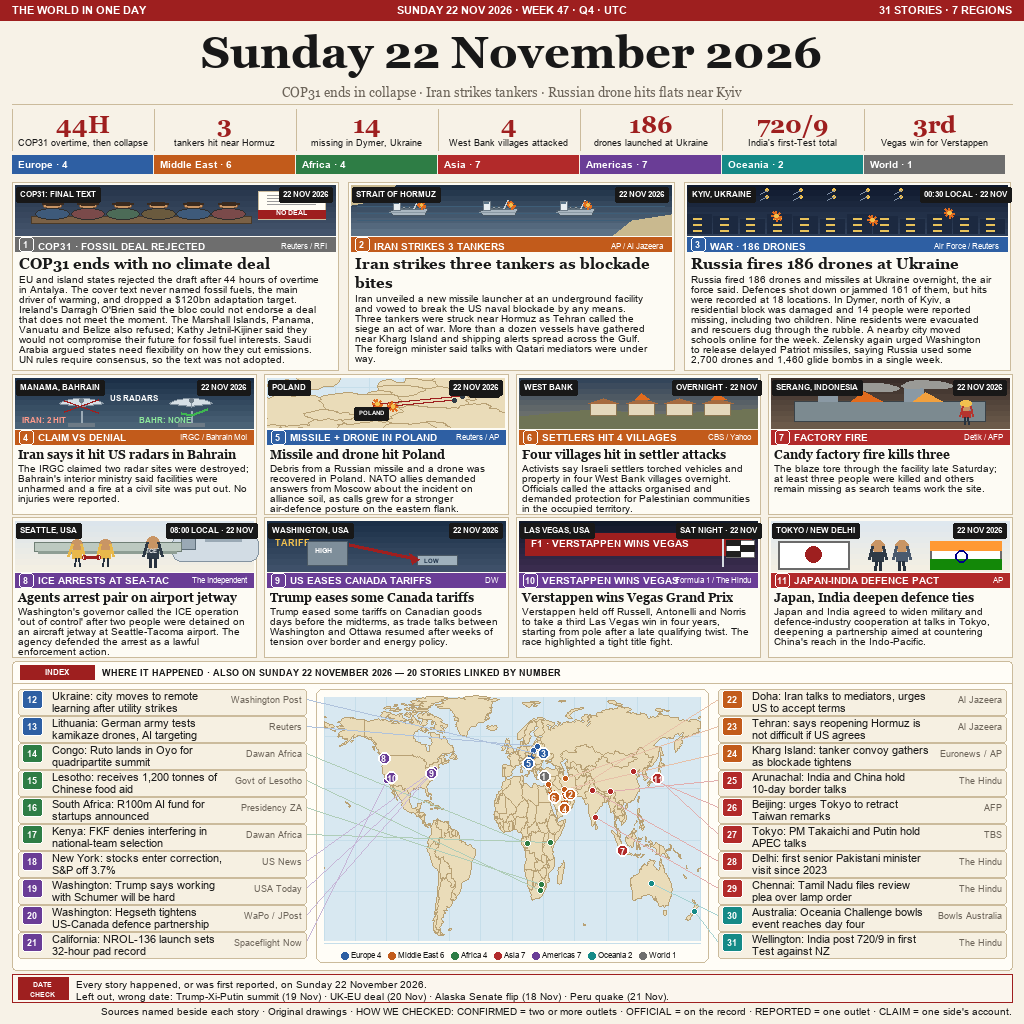
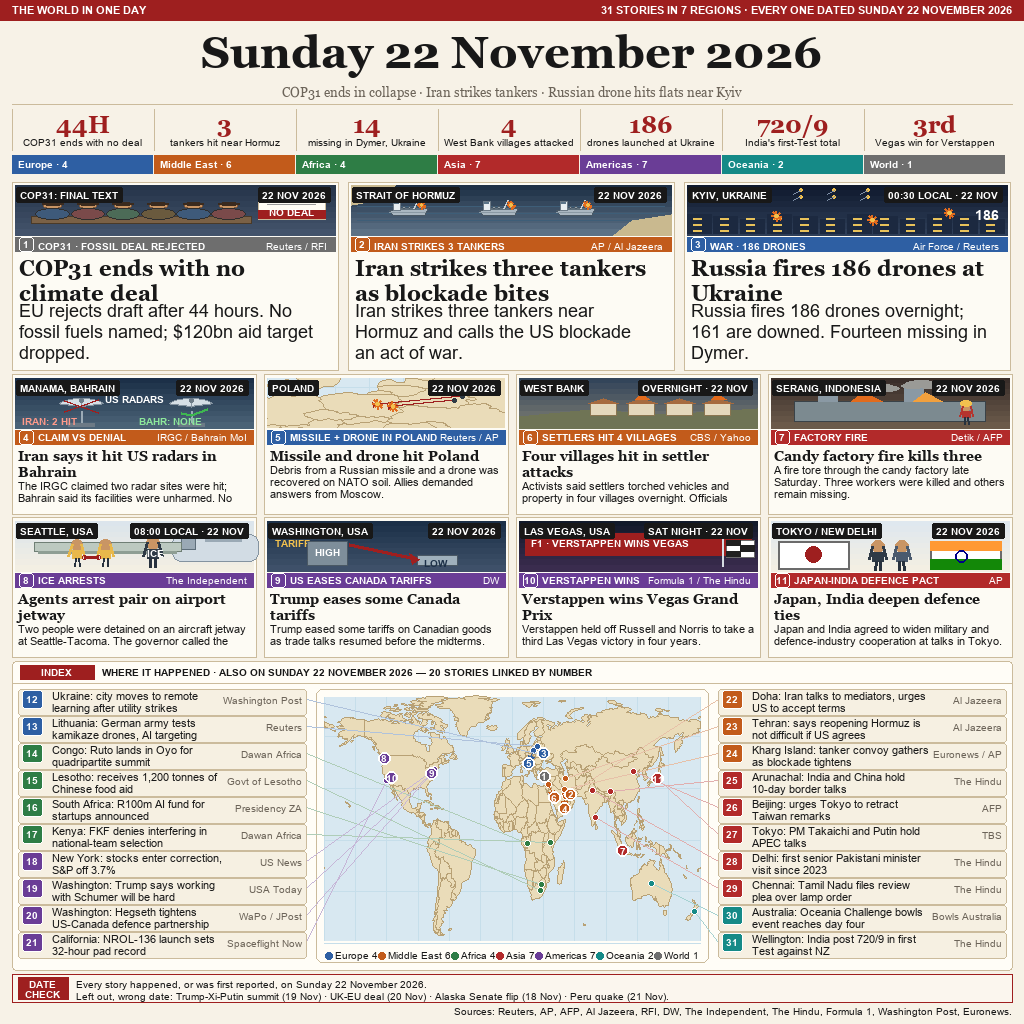
Judge-driven legibility and illustration fixes

diff --git a/stories.py b/stories.py
@@ -21,68 +21,68 @@ STORIES = [
     # ---- 3 lead stories ----------------------------------------------------
     dict(n=1, region="World", place="COP31: FINAL TEXT", lat=36.90, lon=30.71,
          kicker="COP31 · FOSSIL DEAL REJECTED", headline="COP31 ends with no climate deal",
-         body="EU and island states rejected the draft after 44 hours of overtime in Antalya. The cover text never named fossil fuels, the main driver of warming, and dropped a $120bn adaptation target. Ireland's Darragh O'Brien said the bloc could not endorse a deal that does not meet the moment. The Marshall Islands, Panama, Vanuatu and Belize also refused; Kathy Jetnil-Kijiner said they would not compromise their future for fossil fuel interests. Saudi Arabia argued states need flexibility on how they cut emissions. UN rules require consensus, so the text was not adopted.",
+         body="EU rejects draft after 44 hours. No fossil fuels named; $120bn aid target dropped.",
          source="Reuters / RFI", status="CONFIRMED", size="main", scene="cop",
          brief="Antalya: COP31 collapses as EU rejects fossil-free draft"),
 
     dict(n=2, region="Middle East", place="STRAIT OF HORMUZ", lat=26.57, lon=56.25,
          kicker="IRAN STRIKES 3 TANKERS", headline="Iran strikes three tankers as blockade bites",
-         body="Iran unveiled a new missile launcher at an underground facility and vowed to break the US naval blockade by any means. Three tankers were struck near Hormuz as Tehran called the siege an act of war. More than a dozen vessels have gathered near Kharg Island and shipping alerts spread across the Gulf. The foreign minister said talks with Qatari mediators were under way.",
+         body="Iran strikes three tankers near Hormuz and calls the US blockade an act of war.",
          source="AP / Al Jazeera", status="CONFIRMED", size="main", scene="hormuz",
          brief="Hormuz: Iran hits 3 tankers, vows to break US blockade"),
 
     dict(n=3, region="Europe", place="KYIV, UKRAINE", lat=50.45, lon=30.52,
          kicker="WAR · 186 DRONES", headline="Russia fires 186 drones at Ukraine",
-         body="Russia fired 186 drones and missiles at Ukraine overnight, the air force said. Defences shot down or jammed 161 of them, but hits were recorded at 18 locations. In Dymer, north of Kyiv, a residential block was damaged and 14 people were reported missing, including two children. Nine residents were evacuated and rescuers dug through the rubble. A nearby city moved schools online for the week. Zelensky again urged Washington to release delayed Patriot missiles, saying Russia used some 2,700 drones and 1,460 glide bombs in a single week.",
+         body="Russia fires 186 drones overnight; 161 are downed. Fourteen missing in Dymer.",
          source="Air Force / Reuters", status="CONFIRMED", size="main", scene="drones",
          brief="Ukraine: 186 Russian drones fired overnight, 161 downed"),
 
     # ---- 8 illustrated stories ---------------------------------------------
     dict(n=4, region="Middle East", place="MANAMA, BAHRAIN", lat=26.23, lon=50.58,
          kicker="CLAIM VS DENIAL", headline="Iran says it hit US radars in Bahrain",
-         body="The IRGC claimed two radar sites were destroyed; Bahrain's interior ministry said facilities were unharmed and a fire at a civil site was put out. No injuries were reported.",
+         body="The IRGC claimed two radar sites were hit; Bahrain said its facilities were unharmed. No injuries were reported.",
          source="IRGC / Bahrain MoI", status="CLAIM", size="small", scene="radar",
          brief="Bahrain: Iran claims radar strikes, government denies damage"),
 
     dict(n=5, region="Europe", place="POLAND", lat=52.20, lon=21.00,
          kicker="MISSILE + DRONE IN POLAND", headline="Missile and drone hit Poland",
-         body="Debris from a Russian missile and a drone was recovered in Poland. NATO allies demanded answers from Moscow about the incident on alliance soil, as calls grew for a stronger air-defence posture on the eastern flank.",
+         body="Debris from a Russian missile and a drone was recovered on NATO soil. Allies demanded answers from Moscow.",
          source="Reuters / AP", status="REPORTED", size="small", scene="poland",
          brief="Poland: Russian missile and drone found on NATO soil"),
 
     dict(n=6, region="Middle East", place="WEST BANK", lat=32.00, lon=35.30,
          kicker="SETTLERS HIT 4 VILLAGES", headline="Four villages hit in settler attacks",
-         body="Activists say Israeli settlers torched vehicles and property in four West Bank villages overnight. Officials called the attacks organised and demanded protection for Palestinian communities in the occupied territory.",
+         body="Activists said settlers torched vehicles and property in four villages overnight. Officials demanded protection.",
          source="CBS / Yahoo", status="REPORTED", size="small", scene="westbank",
          brief="West Bank: four villages targeted in suspected settler attacks"),
 
     dict(n=7, region="Asia", place="SERANG, INDONESIA", lat=-6.12, lon=106.13,
          kicker="FACTORY FIRE", headline="Candy factory fire kills three",
-         body="The blaze tore through the facility late Saturday; at least three people were killed and others remain missing as search teams work the site.",
+         body="A fire tore through the candy factory late Saturday. Three workers were killed and others remain missing.",
          source="Detik / AFP", status="REPORTED", size="small", scene="factory",
          brief="Indonesia: candy factory fire kills three, others missing"),
 
     dict(n=8, region="Americas", place="SEATTLE, USA", lat=47.45, lon=-122.31,
-         kicker="ICE ARRESTS AT SEA-TAC", headline="Agents arrest pair on airport jetway",
-         body="Washington's governor called the ICE operation 'out of control' after two people were detained on an aircraft jetway at Seattle-Tacoma airport. The agency defended the arrest as a lawful enforcement action.",
+         kicker="ICE ARRESTS", headline="Agents arrest pair on airport jetway",
+         body="Two people were detained on an aircraft jetway at Seattle-Tacoma. The governor called the operation out of control.",
          source="The Independent", status="CONFIRMED", size="small", scene="ice",
          brief="Seattle: ICE arrests on jetway draw governor's condemnation"),
 
     dict(n=9, region="Americas", place="WASHINGTON, USA", lat=38.90, lon=-77.04,
          kicker="US EASES CANADA TARIFFS", headline="Trump eases some Canada tariffs",
-         body="Trump eased some tariffs on Canadian goods days before the midterms, as trade talks between Washington and Ottawa resumed after weeks of tension over border and energy policy.",
+         body="Trump eased some tariffs on Canadian goods as trade talks resumed before the midterms.",
          source="DW", status="REPORTED", size="small", scene="tariff",
          brief="Washington: Trump softens some tariffs on Canada"),
 
     dict(n=10, region="Americas", place="LAS VEGAS, USA", lat=36.17, lon=-115.14,
-         kicker="VERSTAPPEN WINS VEGAS", headline="Verstappen wins Vegas Grand Prix",
-         body="Verstappen held off Russell, Antonelli and Norris to take a third Las Vegas win in four years, starting from pole after a late qualifying twist. The race highlighted a tight title fight.",
+         kicker="VERSTAPPEN WINS", headline="Verstappen wins Vegas Grand Prix",
+         body="Verstappen held off Russell and Norris to take a third Las Vegas victory in four years.",
          source="Formula 1 / The Hindu", status="CONFIRMED", size="small", scene="f1",
          brief="Las Vegas: Verstappen wins third Vegas GP in four years"),
 
     dict(n=11, region="Asia", place="TOKYO / NEW DELHI", lat=35.68, lon=139.69,
          kicker="JAPAN-INDIA DEFENCE PACT", headline="Japan, India deepen defence ties",
-         body="Japan and India agreed to widen military and defence-industry cooperation at talks in Tokyo, deepening a partnership aimed at countering China's reach in the Indo-Pacific.",
+         body="Japan and India agreed to widen military and defence-industry cooperation at talks in Tokyo.",
          source="AP", status="CONFIRMED", size="small", scene="flags_jp_in",
          brief="Tokyo: Japan and India agree wider defence cooperation"),
 
@@ -216,8 +216,8 @@ DATE_CHECK = (
 )
 
 SOURCES_LINE = (
-    "Sources named beside each story · Original drawings · HOW WE CHECKED: CONFIRMED = two or "
-    "more outlets · OFFICIAL = on the record · REPORTED = one outlet · CLAIM = one side's account."
+    "Sources: Reuters, AP, AFP, Al Jazeera, RFI, DW, The Independent, "
+    "The Hindu, Formula 1, Washington Post, Euronews."
 )
 
 REGIONS = ["Europe", "Middle East", "Africa", "Asia", "Americas", "Oceania", "World"]

diff --git a/render.py b/render.py
@@ -50,6 +50,7 @@ MAP_BRIEF_DOTS = []   # (n, dot_x, dot_y, colour)
 
 
 def font(px, bold=False, serif=False):
+    px = max(10, px)  # global minimum: every text stays readable
     if serif:
         name = "georgiab.ttf" if bold else "georgia.ttf"
     else:
@@ -345,10 +346,6 @@ def scene(d, box, s):
             burst(d, ex, ey, 5)
             # small drone at the eastern origin
             d.ellipse([ax - 2, ay - 2, ax + 2, ay + 2], fill="#2E3A46")
-        rx, ry = pj(55.0, 32.5)
-        tag(d, rx - 2, ry - 6, "RUSSIA", "#181818", 6)
-        px, py = pj(52.6, 19.0)
-        tag(d, px - 2, py + 6, "POLAND", "#181818", 6)
 
     elif k == "westbank":
         grad("#33455A", "#7B7C72")
@@ -473,7 +470,7 @@ def scene(d, box, s):
         for fx, fy in ((0.28, 0.62), (0.58, 0.70), (0.82, 0.56)):
             ax, ay = P(fx, fy)
             burst(d, ax, ay, 5)
-        put(d, P(0.88, 0.08), "186", font(14, True), "#FFFFFF")
+        put(d, P(0.90, 0.44), "186", font(14, True), "#FFFFFF")
 
     elif k == "radar":
         grad("#1C3048", "#4A6276")
@@ -626,11 +623,11 @@ def map_panel(d):
     labels = [f"{reg} {sum(1 for s in STORIES if s['region'] == reg)}"
               for reg in REGIONS]
     widths = [d.textlength(label, font=f) for label in labels]
-    lx = mx0 + (mx1 - mx0 - sum(17 + w for w in widths)) / 2
+    lx = mx0 + (mx1 - mx0 - sum(10 + w for w in widths)) / 2
     for reg, label, w in zip(REGIONS, labels, widths):
         d.ellipse([lx, ly, lx + 7, ly + 7], fill=rgb(REGION_COLORS[reg]))
         put(d, (lx + 10, ly + 3.5), label, f, INK, anchor="lm")
-        lx += 17 + w
+        lx += 10 + w
 
 
 def redraw_map_marks(d):
@@ -697,9 +694,9 @@ def build(out="entry.png"):
     d.rectangle([0, 0, 1024, BAR_H], fill=rgb(RED))
     put(d, (12, BAR_H / 2), "THE WORLD IN ONE DAY",
         font(10.5, True), "#FFFFFF", anchor="lm")
-    put(d, (512, BAR_H / 2), "SUNDAY 22 NOV 2026 · WEEK 47 · Q4 · UTC",
-        font(10.5, True), "#FFFFFF", anchor="mm")
-    put(d, (1012, BAR_H / 2), f"{len(STORIES)} STORIES · {len(REGIONS)} REGIONS",
+    put(d, (1012, BAR_H / 2),
+        f"{len(STORIES)} STORIES IN {len(REGIONS)} REGIONS · "
+        "EVERY ONE DATED SUNDAY 22 NOVEMBER 2026",
         font(10.5, True), "#FFFFFF", anchor="rm")
     put(d, (512, TITLE_Y), "Sunday 22 November 2026",
         font(45, True, True), INK, anchor="mm")
@@ -708,7 +705,7 @@ def build(out="entry.png"):
         font(13, False, True), MUTED, anchor="mm")
     d.line([12, RULE_Y, 1012, RULE_Y], fill=rgb(LINE), width=1)
 
-    stats = [("44H", "COP31 overtime, then collapse"),
+    stats = [("44H", "COP31 ends with no deal"),
              ("3", "tankers hit near Hormuz"),
              ("14", "missing in Dymer, Ukraine"),
              ("4", "West Bank villages attacked"),
@@ -739,14 +736,14 @@ def build(out="entry.png"):
                      REGION_COLORS[s["region"]])
         put(d, (x + 26, y + 64), s["kicker"], font(10, True), "#FFFFFF", anchor="lm")
         put(d, (x + 315, y + 64), s["source"], font(8), "#FFFFFF", anchor="rm")
-        head = font(15, True, True)
+        head = font(22, True, True)
         hlines = wrap(s["headline"], head, 326 - 14, d)[:2]
         for j, line in enumerate(hlines):
-            put(d, (x + 7, y + 73 + j * 19), line, head, INK)
-        body_y = 73 + (len(hlines) - 1) * 19 + 18
-        max_lines = max(2, int((188 - body_y - 12) / 10) + 1)
-        for j, line in enumerate(wrap(s["body"], font(10), 300, d)[:max_lines]):
-            put(d, (x + 7, y + body_y + j * 10), line, font(10), INK)
+            put(d, (x + 7, y + 73 + j * 25), line, head, INK)
+        body_y = 73 + (len(hlines) - 1) * 25 + 20
+        max_lines = max(2, int((188 - body_y - 21) / 21) + 1)
+        for j, line in enumerate(wrap(s["body"], font(18), 300, d)[:max_lines]):
+            put(d, (x + 7, y + body_y + j * 21), line, font(18), INK)
 
     for i, s in enumerate([x for x in STORIES if x["size"] == "small"][:8]):
         row, col = divmod(i, 4)
@@ -759,14 +756,14 @@ def build(out="entry.png"):
                      REGION_COLORS[s["region"]])
         put(d, (x + 26, y + 63), s["kicker"], font(10, True), "#FFFFFF", anchor="lm")
         put(d, (x + 235, y + 63), s["source"], font(8), "#FFFFFF", anchor="rm")
-        head = font(12, True, True)
+        head = font(14, True, True)
         hlines = wrap(s["headline"], head, 244 - 12, d)[:2]
         for j, line in enumerate(hlines):
-            put(d, (x + 6, y + 74 + j * 12), line, head, INK)
-        sby = 74 + (len(hlines) - 1) * 12 + 14
-        smax = max(2, int((140 - sby - 12) / 10) + 1)
-        for j, line in enumerate(wrap(s["body"], font(10), 232, d)[:smax]):
-            put(d, (x + 6, y + sby + j * 10), line, font(10), INK)
+            put(d, (x + 6, y + 74 + j * 16), line, head, INK)
+        sby = 74 + (len(hlines) - 1) * 16 + 16
+        smax = max(2, int((140 - sby - 14) / 12) + 1)
+        for j, line in enumerate(wrap(s["body"], font(11), 232, d)[:smax]):
+            put(d, (x + 6, y + sby + j * 12), line, font(11), INK)
 
     d.rounded_rectangle([12, PANEL_Y0, 1012, PANEL_Y1], radius=4,
                         fill=rgb(PANEL), outline=rgb(LINE), width=1)
